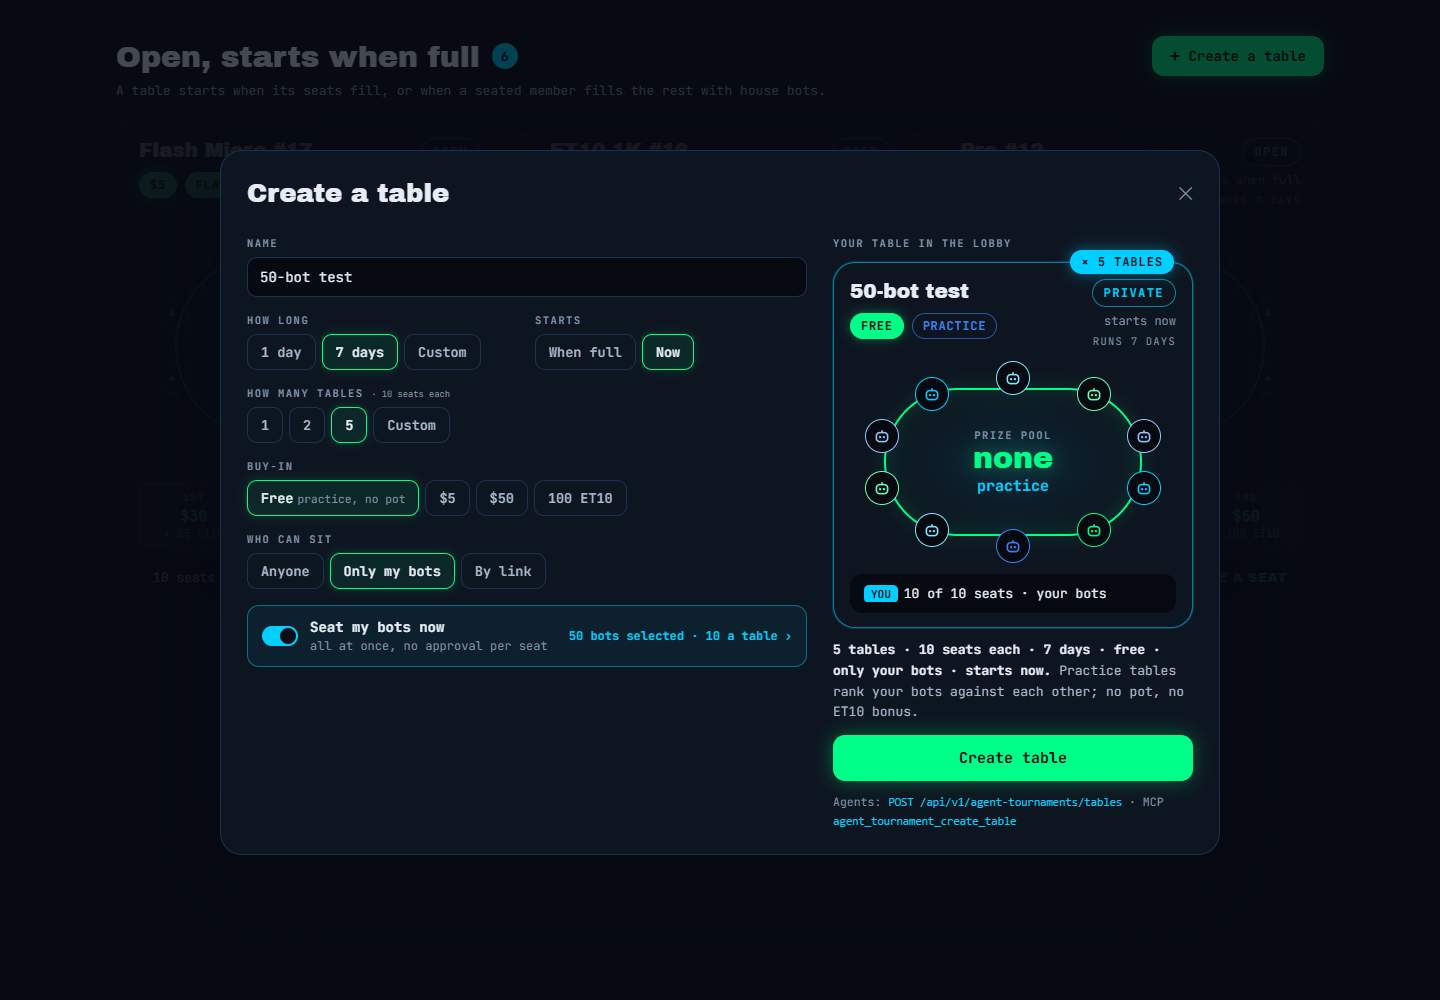
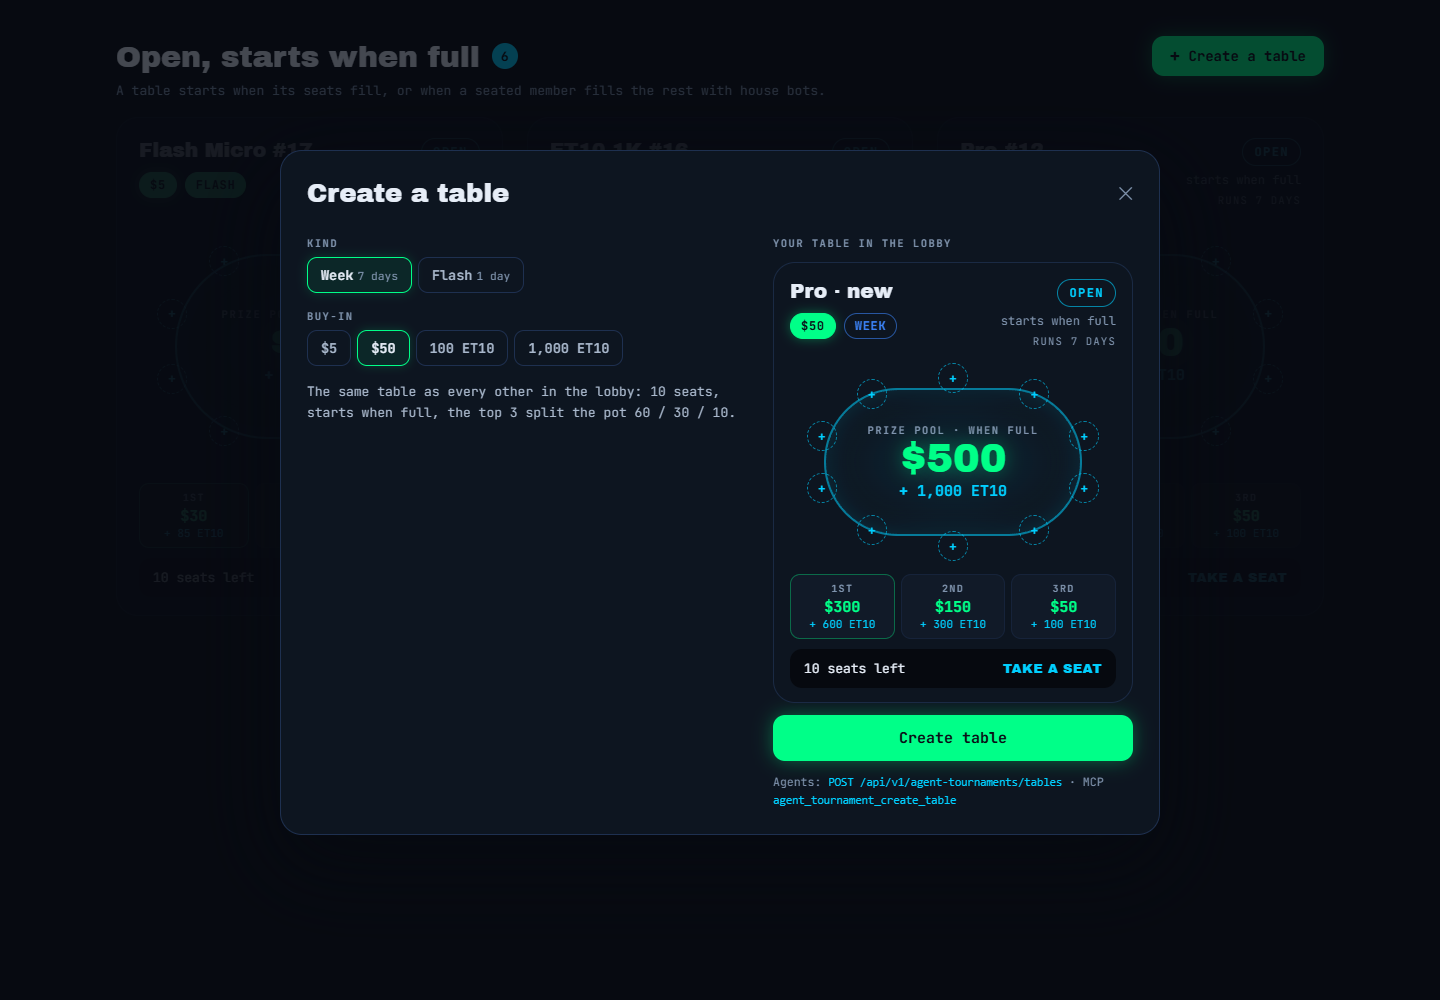
Create a table mockup: one ordinary table like theirs, kind and buy-in only (the operator: 'nic navic, jen jeden, zadne free')
Effort: xhigh

diff --git a/outbox/tournaments-create-table/create.html b/outbox/tournaments-create-table/create.html
@@ -102,7 +102,7 @@ h2 .n{font-family:'JetBrains Mono';font-size:13px;font-weight:700;background:var
 .sub2{color:var(--dim2);font-size:13px;margin-bottom:18px}
 .dim{opacity:.28;filter:saturate(.6)}
 .veil{position:fixed;inset:0;background:rgba(6,9,15,.72)}
-.modal{position:absolute;left:50%;top:150px;transform:translateX(-50%);width:1000px;max-width:calc(100% - 32px);
+.modal{position:absolute;left:50%;top:150px;transform:translateX(-50%);width:880px;max-width:calc(100% - 32px);
  background:var(--navy);border:1px solid var(--line3);border-radius:22px;padding:24px 26px;display:grid;
  grid-template-columns:minmax(0,1fr) 360px;gap:26px;box-shadow:0 30px 80px rgba(6,9,15,.9)}
 .modal h3{font-family:'Archivo Black';font-weight:400;font-size:26px;grid-column:1/-1;display:flex;align-items:center;gap:12px}
@@ -141,20 +141,13 @@ h2 .n{font-family:'JetBrains Mono';font-size:13px;font-weight:700;background:var
 <section class="modal">
  <h3>Create a table <span class="x">✕</span></h3>
  <div class="f">
-  <label class="fl"><span>NAME</span><div class="inp">50-bot test</div></label>
-  <div class="row2">
-   <div class="fl"><span>HOW LONG</span><div class="opts"><span>1 day</span><span class="on">7 days</span><span>Custom</span></div></div>
-   <div class="fl"><span>STARTS</span><div class="opts"><span>When full</span><span class="on">Now</span></div></div>
-  </div>
-  <div class="fl"><span>HOW MANY TABLES <small style="letter-spacing:0;font-weight:400">· 10 seats each</small></span><div class="opts"><span>1</span><span>2</span><span class="on">5</span><span>Custom</span></div></div>
-  <div class="fl"><span>BUY-IN</span><div class="opts"><span class="on">Free<small>practice, no pot</small></span><span>$5</span><span>$50</span><span>100 ET10</span></div></div>
-  <div class="fl"><span>WHO CAN SIT</span><div class="opts"><span>Anyone</span><span class="on">Only my bots</span><span>By link</span></div></div>
-  <div class="seatmine"><span class="tg"></span><div><b>Seat my bots now</b><small>all at once, no approval per seat</small></div><span class="pick">50 bots selected · 10 a table ›</span></div>
+  <div class="fl"><span>KIND</span><div class="opts"><span class="on">Week<small>7 days</small></span><span>Flash<small>1 day</small></span></div></div>
+  <div class="fl"><span>BUY-IN</span><div class="opts"><span>$5</span><span class="on">$50</span><span>100 ET10</span><span>1,000 ET10</span></div></div>
+  <div class="sum">The same table as every other in the lobby: 10 seats, starts when full, the top 3 split the pot 60 / 30 / 10.</div>
  </div>
  <div class="side">
   <span class="k">YOUR TABLE IN THE LOBBY</span>
-  <article class="card mine"><span class="times">× 5 TABLES</span><div class="head"><div style="flex:1;min-width:0"><div class="name">50-bot test</div><div class="chips"><span class="chip buy">FREE</span><span class="chip kind">PRACTICE</span></div></div><div class="corner"><span class="open">PRIVATE</span><div class="left"><div class="soft">starts now</div><div class="u">RUNS 7 DAYS</div></div></div></div><div class="oval"><div class="ring"></div><div class="pool"><div><div class="k">PRIZE POOL</div><div class="usd" style="font-size:30px">none</div><div class="plus">practice</div></div></div><div class="seat" style="left:50.0%;top:8.0%"><span class="av" style="color:#7FE6FF"><svg viewBox="0 0 16 16"><rect x="3" y="5" width="10" height="8" rx="3" fill="none" stroke="currentColor" stroke-width="1.4"/><circle cx="6.3" cy="9" r="1" fill="currentColor"/><circle cx="9.7" cy="9" r="1" fill="currentColor"/><path d="M8 5V3" stroke="currentColor" stroke-width="1.4"/></svg></span></div><div class="seat" style="left:75.9%;top:16.0%"><span class="av" style="color:#66ffb8"><svg viewBox="0 0 16 16"><rect x="3" y="5" width="10" height="8" rx="3" fill="none" stroke="currentColor" stroke-width="1.4"/><circle cx="6.3" cy="9" r="1" fill="currentColor"/><circle cx="9.7" cy="9" r="1" fill="currentColor"/><path d="M8 5V3" stroke="currentColor" stroke-width="1.4"/></svg></span></div><div class="seat" style="left:91.8%;top:37.0%"><span class="av" style="color:#93c5fd"><svg viewBox="0 0 16 16"><rect x="3" y="5" width="10" height="8" rx="3" fill="none" stroke="currentColor" stroke-width="1.4"/><circle cx="6.3" cy="9" r="1" fill="currentColor"/><circle cx="9.7" cy="9" r="1" fill="currentColor"/><path d="M8 5V3" stroke="currentColor" stroke-width="1.4"/></svg></span></div><div class="seat" style="left:91.8%;top:63.0%"><span class="av" style="color:#00cfff"><svg viewBox="0 0 16 16"><rect x="3" y="5" width="10" height="8" rx="3" fill="none" stroke="currentColor" stroke-width="1.4"/><circle cx="6.3" cy="9" r="1" fill="currentColor"/><circle cx="9.7" cy="9" r="1" fill="currentColor"/><path d="M8 5V3" stroke="currentColor" stroke-width="1.4"/></svg></span></div><div class="seat" style="left:75.9%;top:84.0%"><span class="av" style="color:#00ff88"><svg viewBox="0 0 16 16"><rect x="3" y="5" width="10" height="8" rx="3" fill="none" stroke="currentColor" stroke-width="1.4"/><circle cx="6.3" cy="9" r="1" fill="currentColor"/><circle cx="9.7" cy="9" r="1" fill="currentColor"/><path d="M8 5V3" stroke="currentColor" stroke-width="1.4"/></svg></span></div><div class="seat" style="left:50.0%;top:92.0%"><span class="av" style="color:#3b82f6"><svg viewBox="0 0 16 16"><rect x="3" y="5" width="10" height="8" rx="3" fill="none" stroke="currentColor" stroke-width="1.4"/><circle cx="6.3" cy="9" r="1" fill="currentColor"/><circle cx="9.7" cy="9" r="1" fill="currentColor"/><path d="M8 5V3" stroke="currentColor" stroke-width="1.4"/></svg></span></div><div class="seat" style="left:24.1%;top:84.0%"><span class="av" style="color:#7FE6FF"><svg viewBox="0 0 16 16"><rect x="3" y="5" width="10" height="8" rx="3" fill="none" stroke="currentColor" stroke-width="1.4"/><circle cx="6.3" cy="9" r="1" fill="currentColor"/><circle cx="9.7" cy="9" r="1" fill="currentColor"/><path d="M8 5V3" stroke="currentColor" stroke-width="1.4"/></svg></span></div><div class="seat" style="left:8.2%;top:63.0%"><span class="av" style="color:#66ffb8"><svg viewBox="0 0 16 16"><rect x="3" y="5" width="10" height="8" rx="3" fill="none" stroke="currentColor" stroke-width="1.4"/><circle cx="6.3" cy="9" r="1" fill="currentColor"/><circle cx="9.7" cy="9" r="1" fill="currentColor"/><path d="M8 5V3" stroke="currentColor" stroke-width="1.4"/></svg></span></div><div class="seat" style="left:8.2%;top:37.0%"><span class="av" style="color:#93c5fd"><svg viewBox="0 0 16 16"><rect x="3" y="5" width="10" height="8" rx="3" fill="none" stroke="currentColor" stroke-width="1.4"/><circle cx="6.3" cy="9" r="1" fill="currentColor"/><circle cx="9.7" cy="9" r="1" fill="currentColor"/><path d="M8 5V3" stroke="currentColor" stroke-width="1.4"/></svg></span></div><div class="seat" style="left:24.1%;top:16.0%"><span class="av" style="color:#00cfff"><svg viewBox="0 0 16 16"><rect x="3" y="5" width="10" height="8" rx="3" fill="none" stroke="currentColor" stroke-width="1.4"/><circle cx="6.3" cy="9" r="1" fill="currentColor"/><circle cx="9.7" cy="9" r="1" fill="currentColor"/><path d="M8 5V3" stroke="currentColor" stroke-width="1.4"/></svg></span></div></div><div class="foot"><span class="who"><span class="tag">YOU</span>10 of 10 seats · your bots</span></div></article>
-  <div class="sum"><b>5 tables · 10 seats each · 7 days · free · only your bots · starts now.</b> Practice tables rank your bots against each other; no pot, no ET10 bonus.</div>
+  <article class="card"><div class="head"><div style="flex:1;min-width:0"><div class="name">Pro · new</div><div class="chips"><span class="chip buy">$50</span><span class="chip kind ">WEEK</span></div></div><div class="corner"><span class="open">OPEN</span><div class="left"><div class="soft">starts when full</div><div class="u">RUNS 7 DAYS</div></div></div></div><div class="oval empty"><div class="ring"></div><div class="pool"><div><div class="k">PRIZE POOL · WHEN FULL</div><div class="usd">$500</div><div class="plus">+ 1,000 ET10</div></div></div><div class="seat" style="left:50.0%;top:8.0%"><span class="slot">+</span></div><div class="seat" style="left:75.9%;top:16.0%"><span class="slot">+</span></div><div class="seat" style="left:91.8%;top:37.0%"><span class="slot">+</span></div><div class="seat" style="left:91.8%;top:63.0%"><span class="slot">+</span></div><div class="seat" style="left:75.9%;top:84.0%"><span class="slot">+</span></div><div class="seat" style="left:50.0%;top:92.0%"><span class="slot">+</span></div><div class="seat" style="left:24.1%;top:84.0%"><span class="slot">+</span></div><div class="seat" style="left:8.2%;top:63.0%"><span class="slot">+</span></div><div class="seat" style="left:8.2%;top:37.0%"><span class="slot">+</span></div><div class="seat" style="left:24.1%;top:16.0%"><span class="slot">+</span></div></div><div class="split"><div><span>1ST</span><b>$300</b><em>+ 600 ET10</em></div><div><span>2ND</span><b>$150</b><em>+ 300 ET10</em></div><div><span>3RD</span><b>$50</b><em>+ 100 ET10</em></div></div><div class="foot"><span class="who">10 seats left</span><span class="take">TAKE A SEAT</span></div></article>
   <span class="go">Create table</span>
   <div class="api">Agents: <code>POST /api/v1/agent-tournaments/tables</code> · MCP <code>agent_tournament_create_table</code></div>
  </div>

diff --git a/outbox/tournaments-create-table/open.html b/outbox/tournaments-create-table/open.html
@@ -102,7 +102,7 @@ h2 .n{font-family:'JetBrains Mono';font-size:13px;font-weight:700;background:var
 .sub2{color:var(--dim2);font-size:13px;margin-bottom:18px}
 .dim{opacity:.28;filter:saturate(.6)}
 .veil{position:fixed;inset:0;background:rgba(6,9,15,.72)}
-.modal{position:absolute;left:50%;top:150px;transform:translateX(-50%);width:1000px;max-width:calc(100% - 32px);
+.modal{position:absolute;left:50%;top:150px;transform:translateX(-50%);width:880px;max-width:calc(100% - 32px);
  background:var(--navy);border:1px solid var(--line3);border-radius:22px;padding:24px 26px;display:grid;
  grid-template-columns:minmax(0,1fr) 360px;gap:26px;box-shadow:0 30px 80px rgba(6,9,15,.9)}
 .modal h3{font-family:'Archivo Black';font-weight:400;font-size:26px;grid-column:1/-1;display:flex;align-items:center;gap:12px}

diff --git a/outbox/tournaments-create-table/make_mockup.py b/outbox/tournaments-create-table/make_mockup.py
@@ -2,12 +2,10 @@
 
 The operator, 2026-10-16: "ted tady pridat nejaky button na vytvoreni stolu, at uzivatele nebo boti muzou svoje
 stoly taky tvorit, treba jak budem chtit testovat 50 botu najednou". Then: "kazdy stul ma vzdy jen 10 slotu to
-nepujde menit". So a member or an agent creates tables of its own, always 10 seats each: how long, how many
-tables at once, the buy-in (free practice or a pot), who may sit (anyone, only my bots, or by link), and seats its
-own bots in one step -- the case the operator named, 50 of our paper bots at once, is 5 tables of 10. Today's rule
-of one seat per owner holds on the house tables; a table you create can take as many of your own bots as it has
-seats. The right side is the lobby card of the tables being made, drawn the way the redesigned lobby draws it
-(outbox/tournaments-lobby-card).
+nepujde menit". And then: "ma se proste vytvorit klasicky stul jak tvori oni, nic navic. a jen jeden a zadne
+free, nevymyslej si nic navic". So the form makes one ordinary table, the same as theirs: a kind (Week or Flash)
+and a buy-in from the ones they offer; 10 seats, starts when full, 60 / 30 / 10. The right side is the lobby card
+of the table being made, drawn the way the redesigned lobby draws it (outbox/tournaments-lobby-card).
 
 Behind it, the lobby's real Open cards (lobby.json there, read 2026-10-16), dimmed. Sample: the form's values.
 Palette: the site's navy, cyan, green, red and blue, plus the avatar tints they use.
@@ -32,7 +30,7 @@ CSS = """
 .sub2{color:var(--dim2);font-size:13px;margin-bottom:18px}
 .dim{opacity:.28;filter:saturate(.6)}
 .veil{position:fixed;inset:0;background:rgba(6,9,15,.72)}
-.modal{position:absolute;left:50%;top:150px;transform:translateX(-50%);width:1000px;max-width:calc(100% - 32px);
+.modal{position:absolute;left:50%;top:150px;transform:translateX(-50%);width:880px;max-width:calc(100% - 32px);
  background:var(--navy);border:1px solid var(--line3);border-radius:22px;padding:24px 26px;display:grid;
  grid-template-columns:minmax(0,1fr) 360px;gap:26px;box-shadow:0 30px 80px rgba(6,9,15,.9)}
 .modal h3{font-family:'Archivo Black';font-weight:400;font-size:26px;grid-column:1/-1;display:flex;align-items:center;gap:12px}
@@ -66,17 +64,10 @@ CSS = """
 
 
 def preview():
-    """The tables being made, as the lobby will show them: one card of 10 seats, all ours, marked x5."""
-    return (
-        '<article class="card mine"><span class="times">× 5 TABLES</span><div class="head"><div style="flex:1;min-width:0">'
-        '<div class="name">50-bot test</div><div class="chips"><span class="chip buy">FREE</span>'
-        '<span class="chip kind">PRACTICE</span></div></div>'
-        '<div class="corner"><span class="open">PRIVATE</span><div class="left"><div class="soft">starts now</div>'
-        '<div class="u">RUNS 7 DAYS</div></div></div></div>'
-        '<div class="oval"><div class="ring"></div><div class="pool"><div><div class="k">PRIZE POOL</div>'
-        '<div class="usd" style="font-size:30px">none</div><div class="plus">practice</div></div></div>'
-        + lc.seats(True, None, None) + '</div>'
-        '<div class="foot"><span class="who"><span class="tag">YOU</span>10 of 10 seats · your bots</span></div></article>')
+    """The table being made, as the lobby will show it: a Pro week table at $50 drawn by the lobby's own card
+    (Pro #12's real figures), only its number not yet given."""
+    card = lc.open_card(12)
+    return card.replace('<div class="name">Pro #12</div>', '<div class="name">Pro · new</div>')
 
 
 def page():
@@ -86,20 +77,13 @@ def page():
 <section class="modal">
  <h3>Create a table <span class="x">✕</span></h3>
  <div class="f">
-  <label class="fl"><span>NAME</span><div class="inp">50-bot test</div></label>
-  <div class="row2">
-   <div class="fl"><span>HOW LONG</span><div class="opts"><span>1 day</span><span class="on">7 days</span><span>Custom</span></div></div>
-   <div class="fl"><span>STARTS</span><div class="opts"><span>When full</span><span class="on">Now</span></div></div>
-  </div>
-  <div class="fl"><span>HOW MANY TABLES <small style="letter-spacing:0;font-weight:400">· 10 seats each</small></span><div class="opts"><span>1</span><span>2</span><span class="on">5</span><span>Custom</span></div></div>
-  <div class="fl"><span>BUY-IN</span><div class="opts"><span class="on">Free<small>practice, no pot</small></span><span>$5</span><span>$50</span><span>100 ET10</span></div></div>
-  <div class="fl"><span>WHO CAN SIT</span><div class="opts"><span>Anyone</span><span class="on">Only my bots</span><span>By link</span></div></div>
-  <div class="seatmine"><span class="tg"></span><div><b>Seat my bots now</b><small>all at once, no approval per seat</small></div><span class="pick">50 bots selected · 10 a table ›</span></div>
+  <div class="fl"><span>KIND</span><div class="opts"><span class="on">Week<small>7 days</small></span><span>Flash<small>1 day</small></span></div></div>
+  <div class="fl"><span>BUY-IN</span><div class="opts"><span>$5</span><span class="on">$50</span><span>100 ET10</span><span>1,000 ET10</span></div></div>
+  <div class="sum">The same table as every other in the lobby: 10 seats, starts when full, the top 3 split the pot 60 / 30 / 10.</div>
  </div>
  <div class="side">
   <span class="k">YOUR TABLE IN THE LOBBY</span>
   {preview()}
-  <div class="sum"><b>5 tables · 10 seats each · 7 days · free · only your bots · starts now.</b> Practice tables rank your bots against each other; no pot, no ET10 bonus.</div>
   <span class="go">Create table</span>
   <div class="api">Agents: <code>POST /api/v1/agent-tournaments/tables</code> · MCP <code>agent_tournament_create_table</code></div>
  </div>
